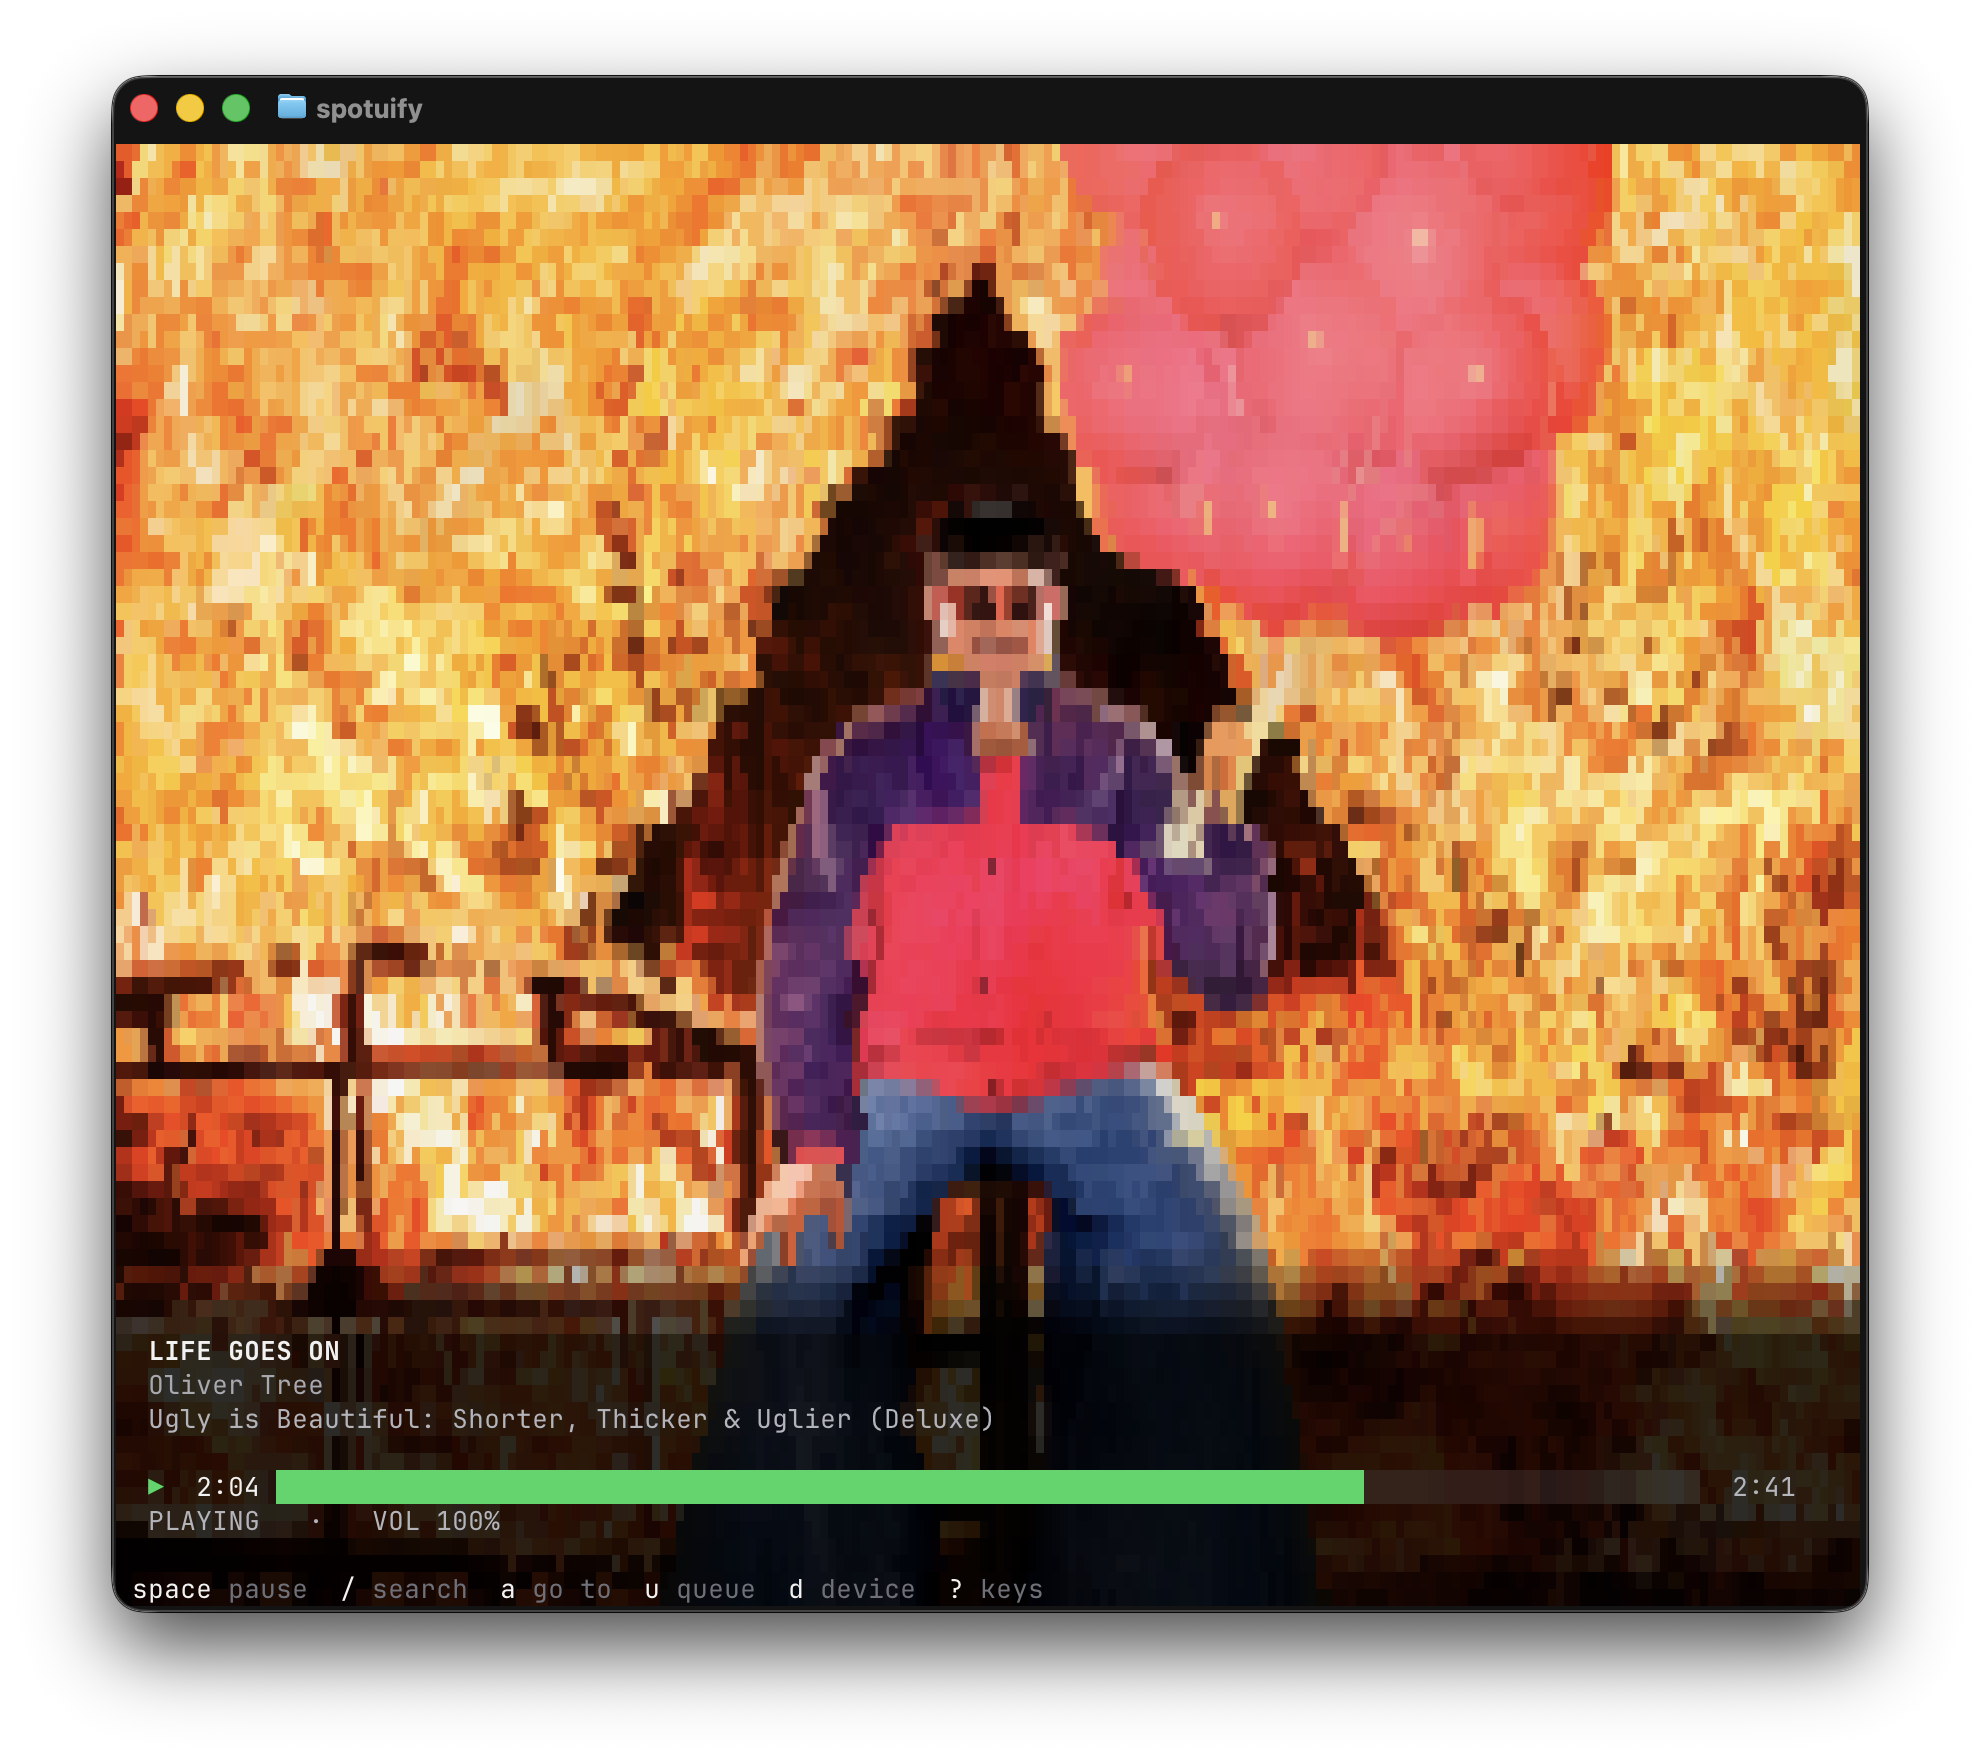
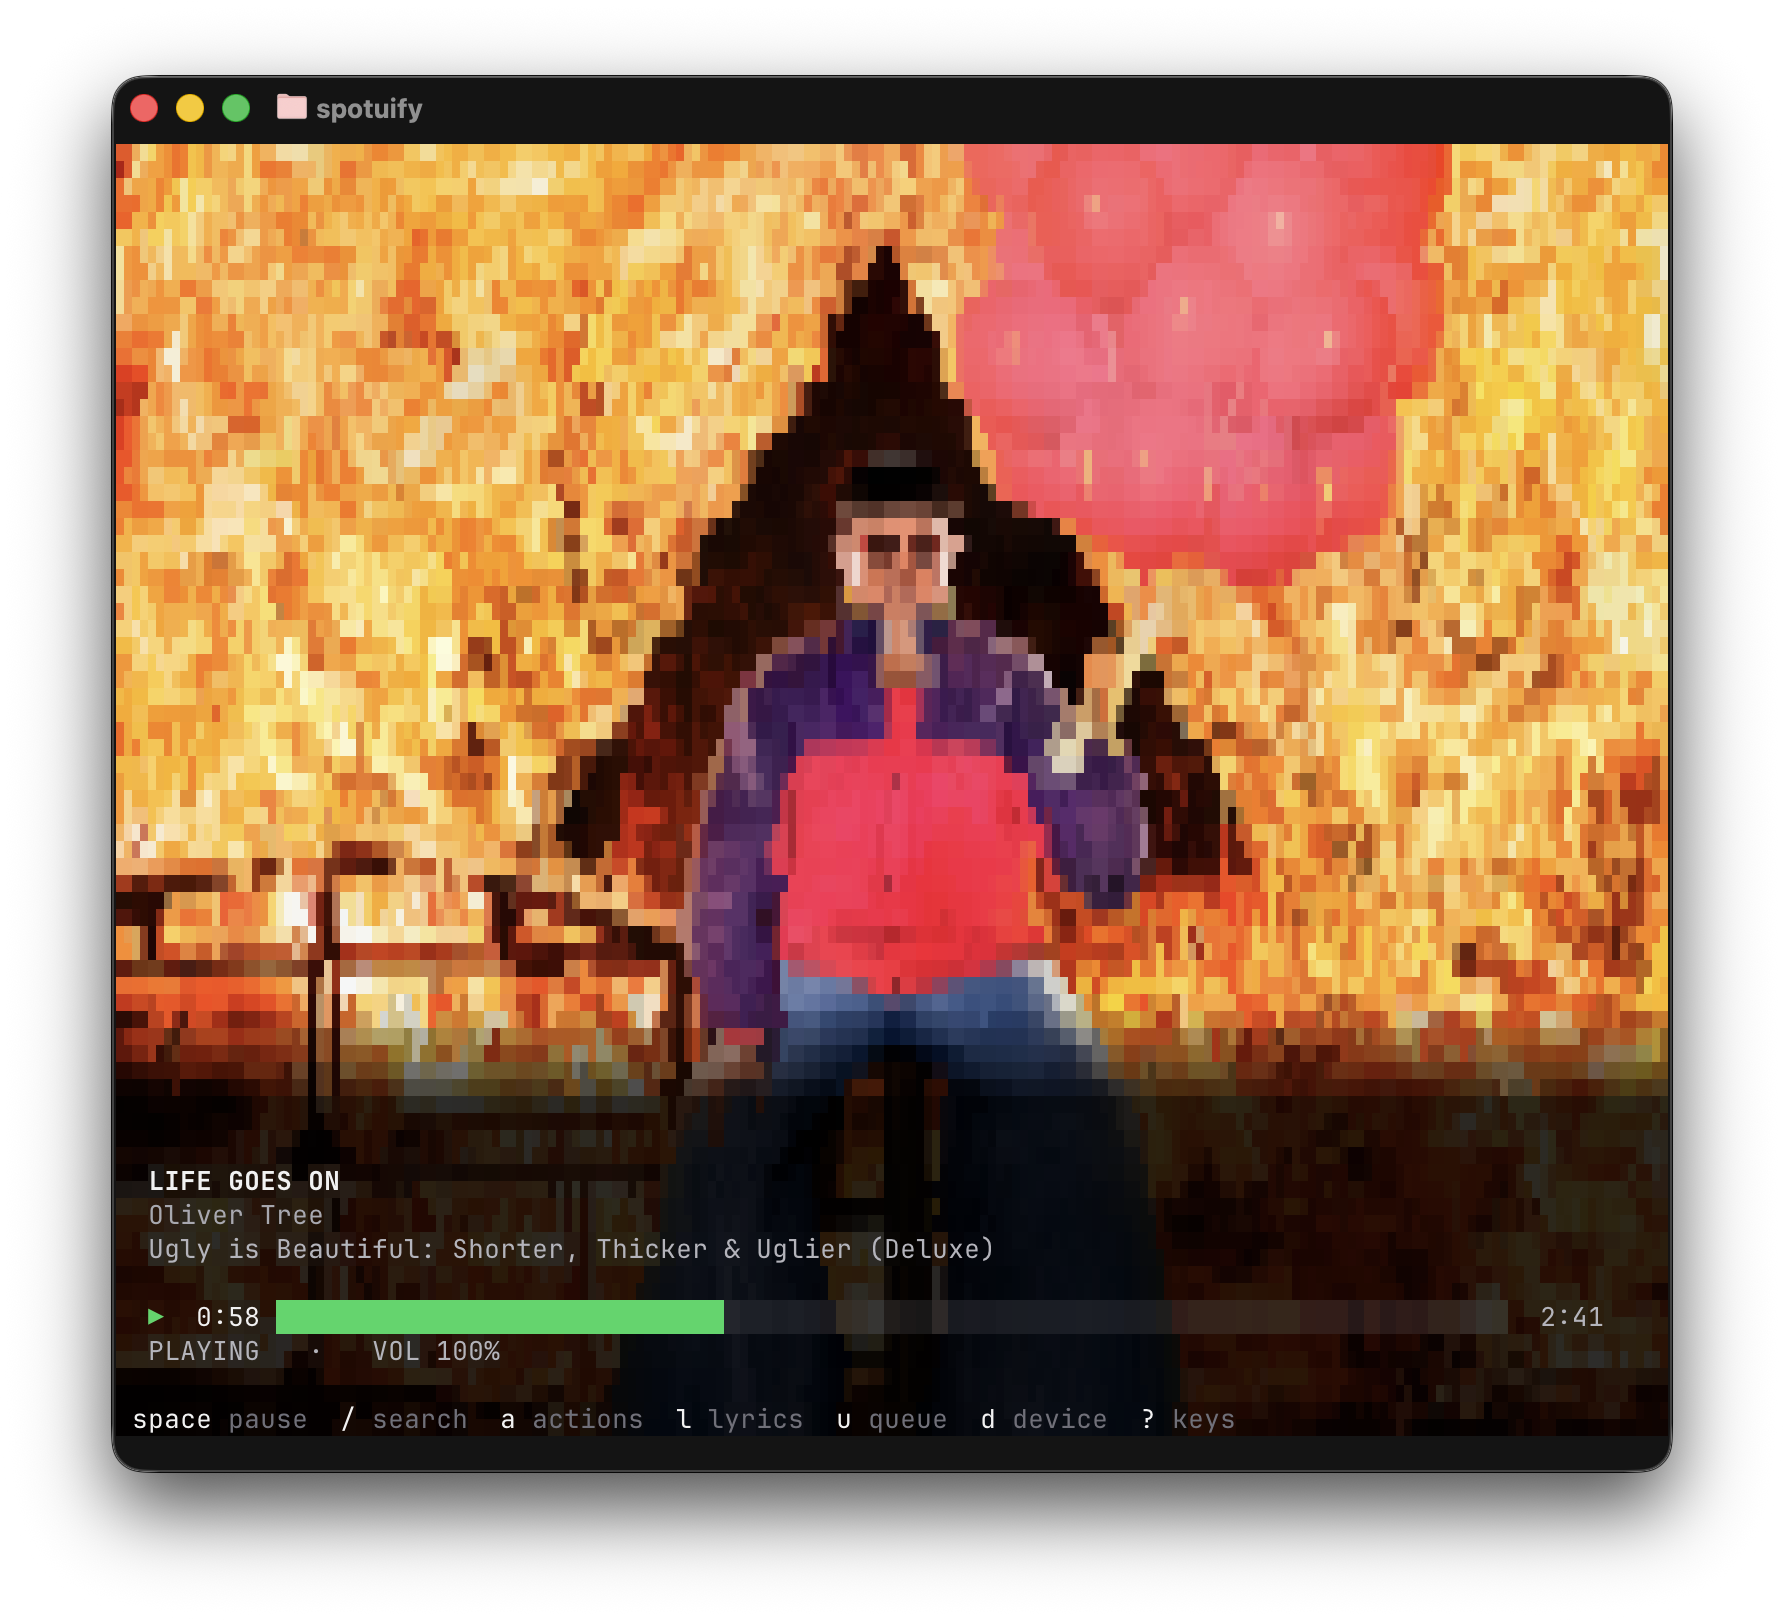
update readme screenshots

diff --git a/README.md b/README.md
@@ -18,7 +18,8 @@
 </p>
 
 <p align="center">
-  <img src="./docs/screenshots/now-playing.png" alt="Now playing" width="90%" />
+  <img src="./docs/screenshots/now-playing.png" alt="Now playing" width="49%" />
+  <img src="./docs/screenshots/lyrics.png" alt="Lyrics" width="49%" />
 </p>
 
 ## Install
